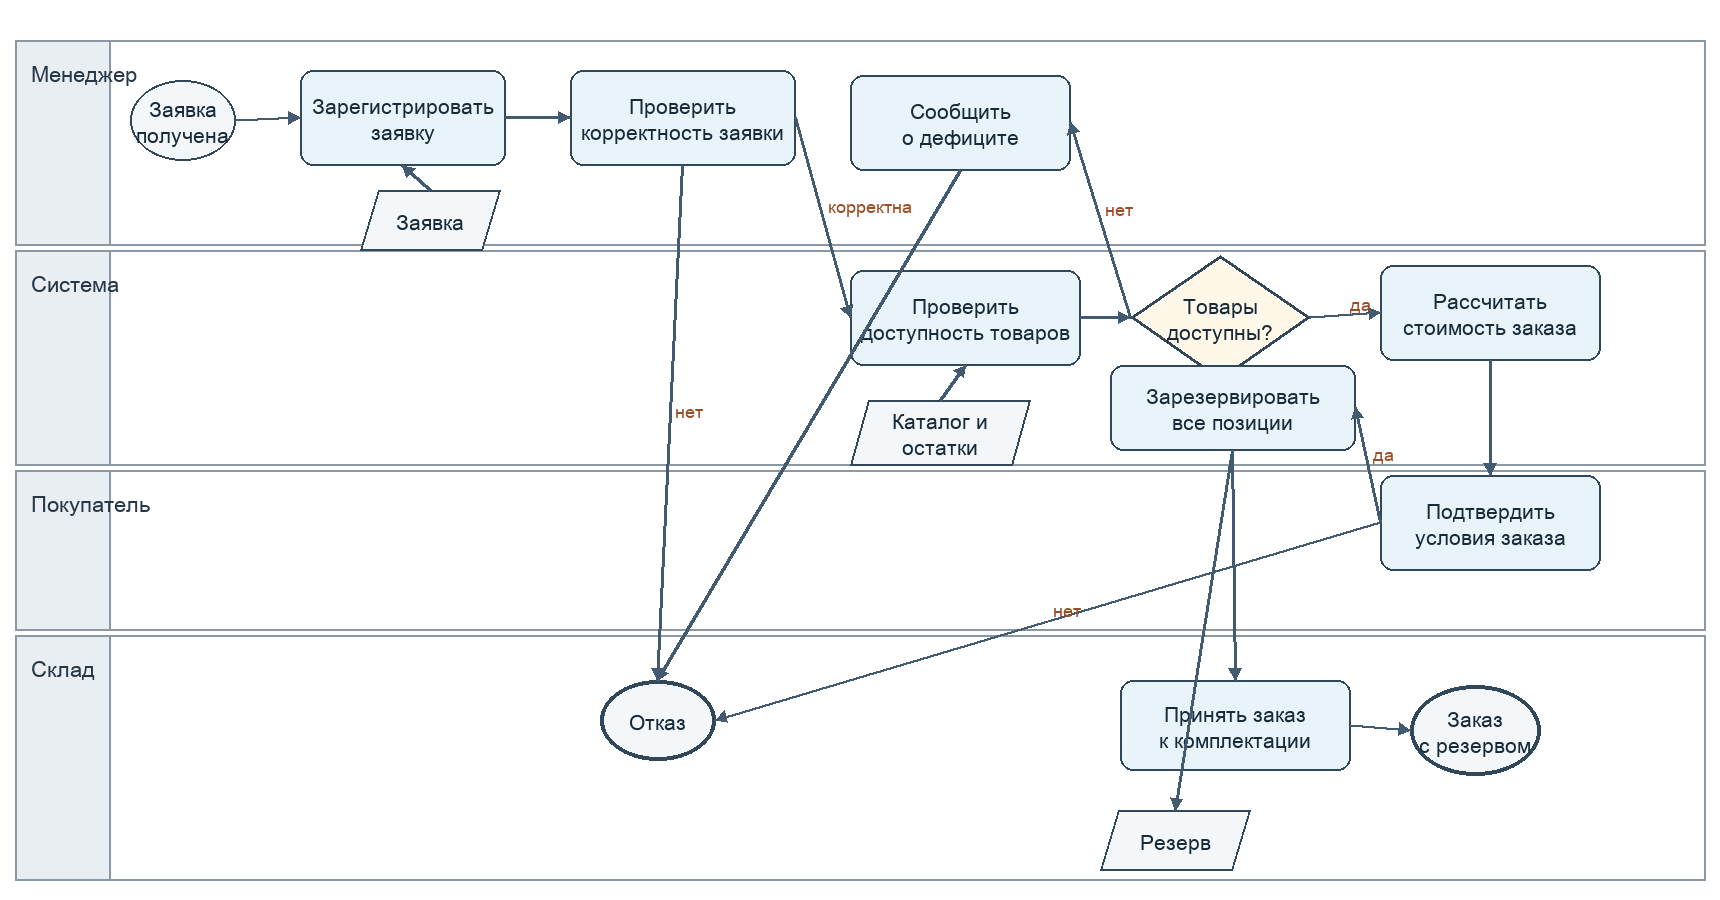
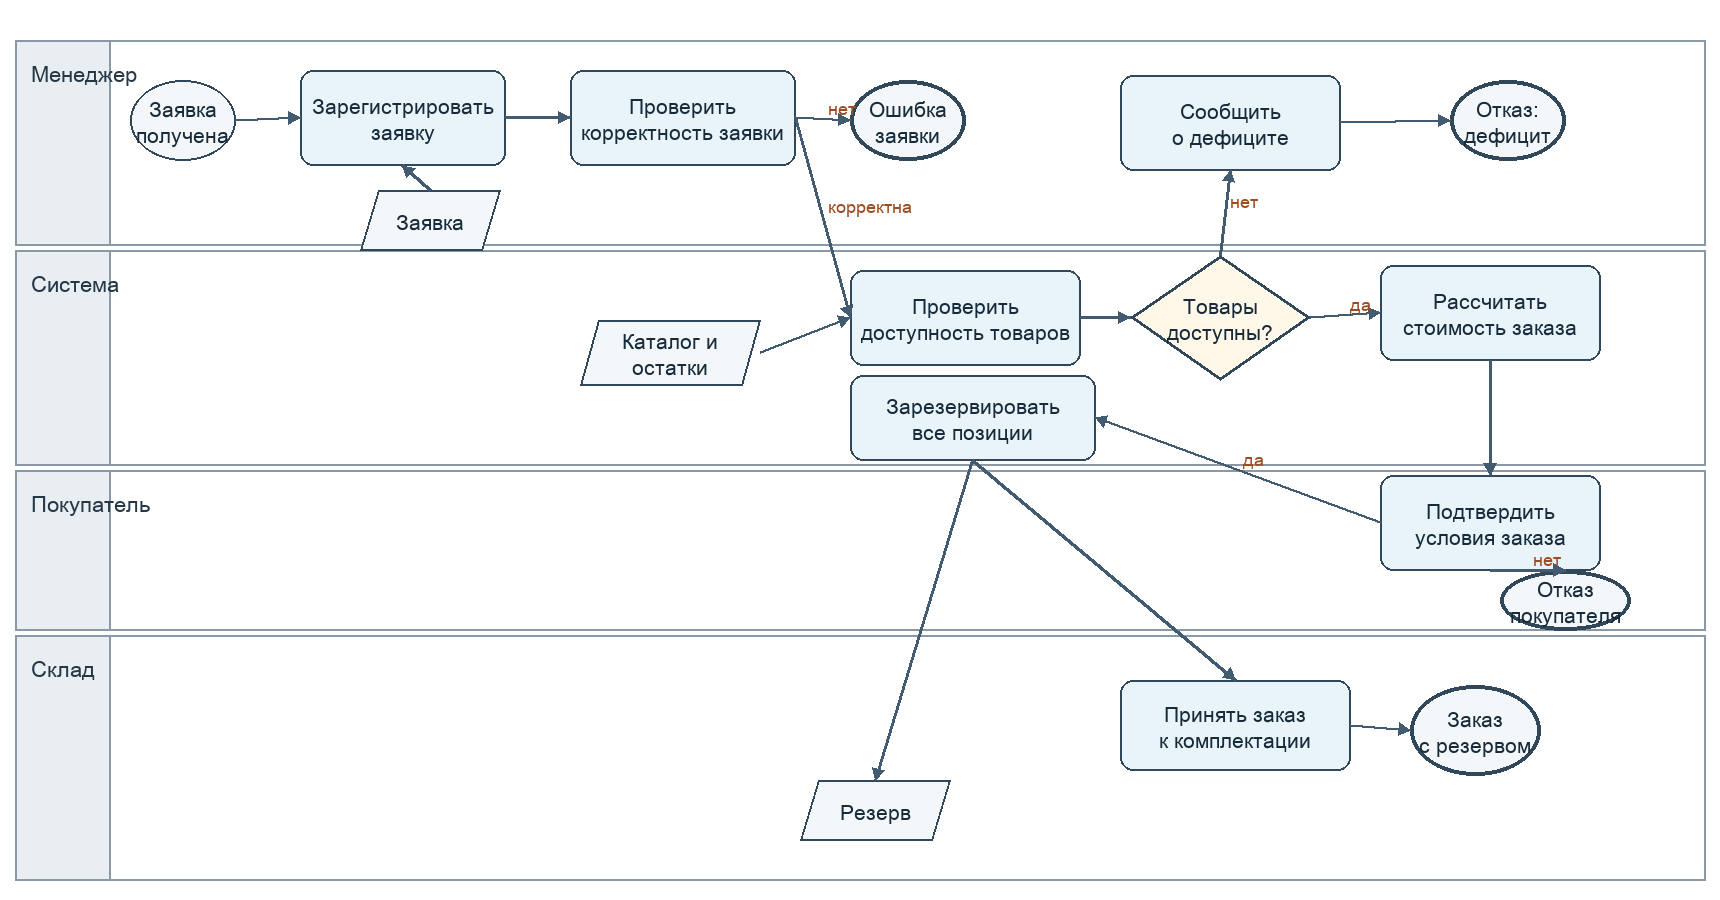
Уточнить диаграммы КТ2 и представление расчета

diff --git a/models/generate.py b/models/generate.py
@@ -79,7 +79,12 @@ def drawio(name,boxes,arrows,width,height):
         ET.SubElement(cell,"mxGeometry",x=str(x),y=str(y),width=str(w),height=str(h),attrib={"as":"geometry"})
     for i,(a,b,label) in enumerate(arrows):
         cell=ET.SubElement(graph,"mxCell",id=f"edge{i}",value=label,style="endArrow=block;html=1;rounded=0;",edge="1",parent="1",source=a,target=b)
-        ET.SubElement(cell,"mxGeometry",relative="1",attrib={"as":"geometry"})
+        geom=ET.SubElement(cell,"mxGeometry",relative="1",attrib={"as":"geometry"})
+        if name.startswith("algo") and boxes[b][3] < boxes[a][3] - 100:
+            side=95 if name=="algo_1" else width-95
+            points=ET.SubElement(geom,"Array",attrib={"as":"points"})
+            for y in (boxes[a][3]+boxes[a][5]//2,boxes[b][3]+boxes[b][5]//2):
+                ET.SubElement(points,"mxPoint",x=str(side),y=str(y))
     ET.ElementTree(root).write(OUT/(name+".drawio"),encoding="utf-8",xml_declaration=True)
 
 
@@ -94,7 +99,7 @@ def bpmn(boxes,arrows):
     ET.SubElement(collaboration,f"{{{B}}}participant",id="Participant_1",name="Поставщик офисной мебели",processRef="Process_1")
     process=ET.SubElement(root,f"{{{B}}}process",id="Process_1",name="Обработка заявки и резервирование мебели",isExecutable="false")
     lane_set=ET.SubElement(process,f"{{{B}}}laneSet",id="LaneSet_1")
-    groups={"manager":["start","register","validate","notify"],"system":["availability","gateway","price","reserve"],"customer":["confirm"],"warehouse":["receive","endok","endno"]}
+    groups={"manager":["start","register","validate","notify","endbad","endshort"],"system":["availability","gateway","price","reserve"],"customer":["confirm","endcancel"],"warehouse":["receive","endok"]}
     for lane_id,ids in groups.items():
         lane=ET.SubElement(lane_set,f"{{{B}}}lane",id=f"Lane_{lane_id}",name={"manager":"Менеджер","system":"Система","customer":"Покупатель","warehouse":"Склад"}[lane_id])
         for item in ids: ET.SubElement(lane,f"{{{B}}}flowNodeRef").text=item
@@ -128,13 +133,14 @@ def main():
       "start":("Заявка\nполучена","start",130,80,105,80),"register":("Зарегистрировать\nзаявку","task",300,70,205,95),
       "validate":("Проверить\nкорректность заявки","task",570,70,225,95),"availability":("Проверить\nдоступность товаров","task",850,270,230,95),
       "gateway":("Товары\nдоступны?","decision",1130,255,180,125),"price":("Рассчитать\nстоимость заказа","task",1380,265,220,95),
-      "confirm":("Подтвердить\nусловия заказа","task",1380,475,220,95),"reserve":("Зарезервировать\nвсе позиции","task",1110,365,245,85),
-      "notify":("Сообщить\nо дефиците","task",850,75,220,95),"endok":("Заказ\nс резервом","end",1410,685,130,90),
-      "endno":("Отказ","end",600,680,115,80),"receive":("Принять заказ\nк комплектации","task",1120,680,230,90),"data_request":("Заявка","data",360,190,140,60),
-      "data_product":("Каталог и\nостатки","data",850,400,180,65),"data_reservation":("Резерв","data",1100,810,150,60)}
-    flows=[("start","register",""),("register","validate",""),("validate","availability","корректна"),("validate","endno","нет"),
-      ("availability","gateway",""),("gateway","notify","нет"),("notify","endno",""),("gateway","price","да"),
-      ("price","confirm",""),("confirm","reserve","да"),("confirm","endno","нет"),("reserve","receive",""),("receive","endok",""),
+      "confirm":("Подтвердить\nусловия заказа","task",1380,475,220,95),"reserve":("Зарезервировать\nвсе позиции","task",850,375,245,85),
+      "notify":("Сообщить\nо дефиците","task",1120,75,220,95),"endok":("Заказ\nс резервом","end",1410,685,130,90),
+      "endbad":("Ошибка\nзаявки","end",850,80,115,80),"endshort":("Отказ:\nдефицит","end",1450,80,115,80),"endcancel":("Отказ\nпокупателя","end",1500,570,130,60),
+      "receive":("Принять заказ\nк комплектации","task",1120,680,230,90),"data_request":("Заявка","data",360,190,140,60),
+      "data_product":("Каталог и\nостатки","data",580,320,180,65),"data_reservation":("Резерв","data",800,780,150,60)}
+    flows=[("start","register",""),("register","validate",""),("validate","availability","корректна"),("validate","endbad","нет"),
+      ("availability","gateway",""),("gateway","notify","нет"),("notify","endshort",""),("gateway","price","да"),
+      ("price","confirm",""),("confirm","reserve","да"),("confirm","endcancel","нет"),("reserve","receive",""),("receive","endok",""),
       ("data_request","register",""),("data_product","availability",""),("reserve","data_reservation","")]
     picture("bpmn",1720,900,process,flows,[("Менеджер",40,205),("Система",250,215),("Покупатель",470,160),("Склад",635,245)])
     bpmn(process,flows)

diff --git a/src/main.py b/src/main.py
@@ -46,7 +46,8 @@ def calculate_total(lines, products):
     """Calculate agreed prices, preserving kopecks: O(n)."""
     total = Decimal("0.00")
     for line in lines:
-        total += Decimal(products[line["product_id"]]["price"]) * line["quantity"]
+        price = Decimal(products[line["product_id"]]["price"])
+        total += price * line["quantity"]
     return total.quantize(Decimal("0.01"))
 
 
